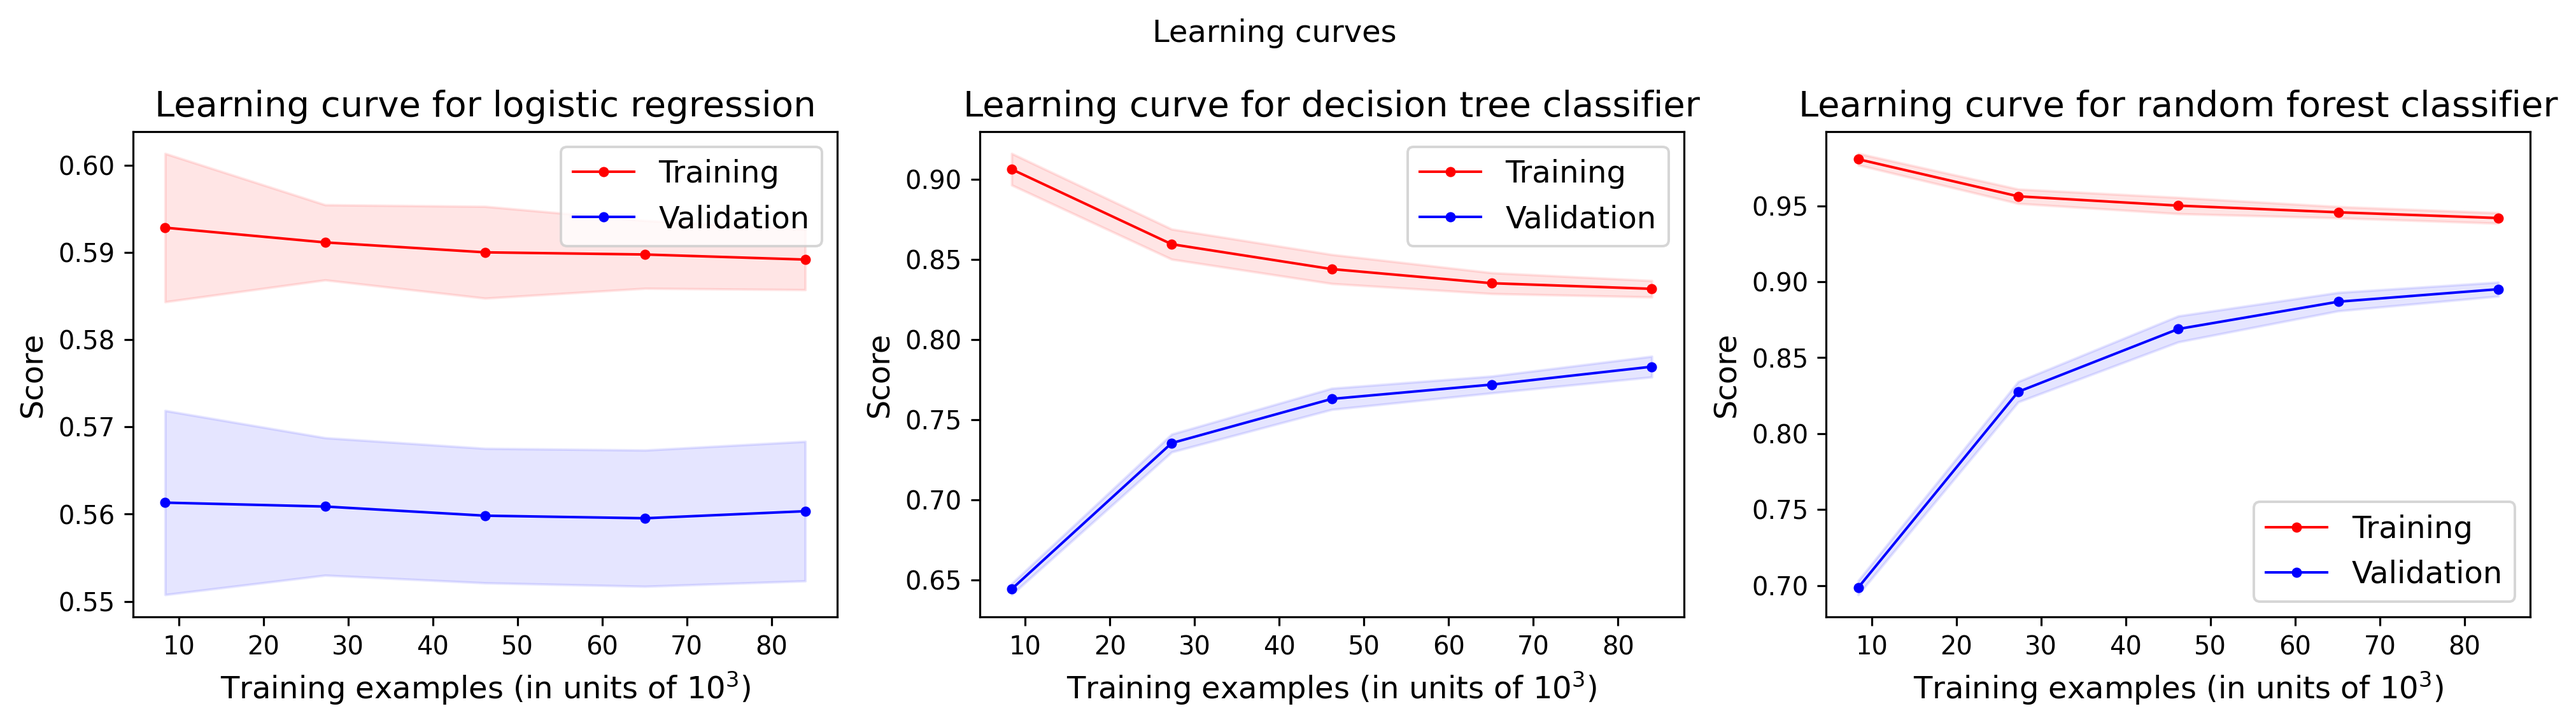
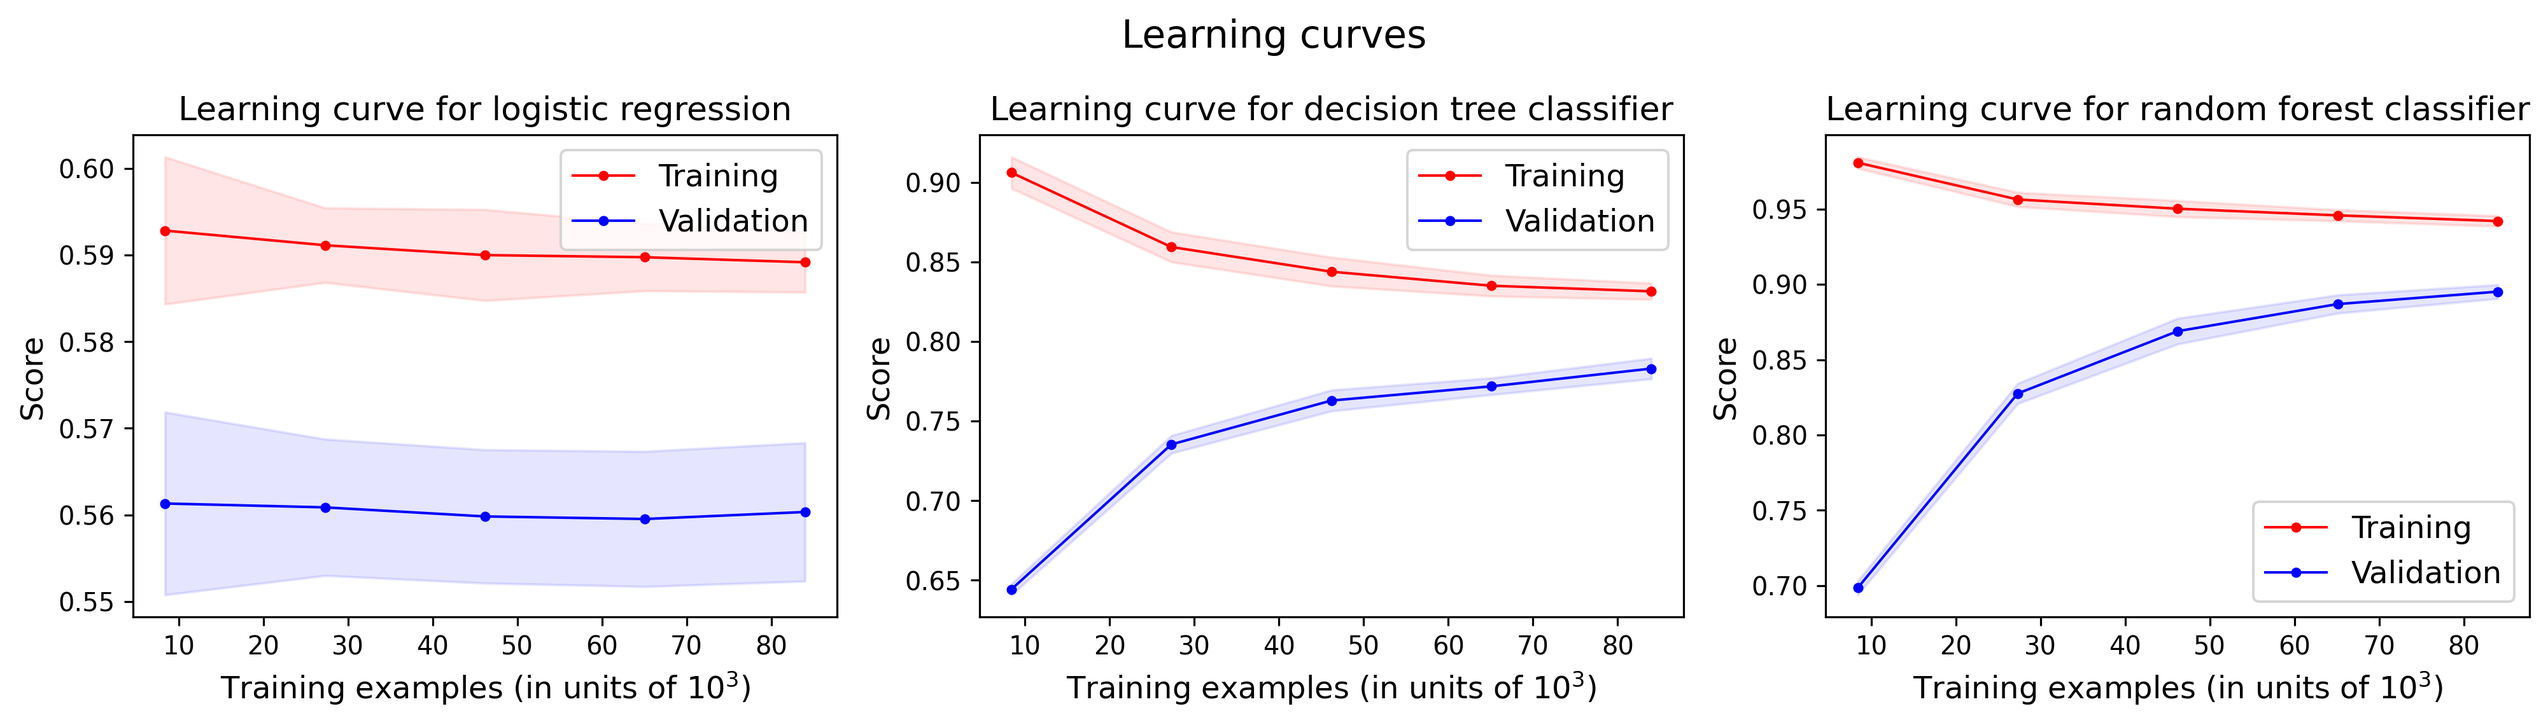
Using font size 15 for suptitles

diff --git a/learning_curves_plot.py b/learning_curves_plot.py
@@ -55,12 +55,12 @@ for ax, (model_name, model_instance) in zip(axes, model_dict.items()):
     ax.plot(train_sizes, train_scores_means, 'r.-', linewidth=1, label='Training')
     ax.plot(train_sizes, val_scores_means, 'b.-', linewidth=1, label='Validation')
     ax.legend(loc='best', fontsize=12)
-    ax.set_title('Learning curve for {0:s}'.format(model_name.lower()), fontsize=14)
+    ax.set_title('Learning curve for {0:s}'.format(model_name.lower()), fontsize=13)
     ax.set_xlabel('Training examples (in units of $10^3$)', fontsize=12)
     ticks = ticker.FuncFormatter(lambda x, _: '{0:g}'.format(x*1e-3))
     ax.xaxis.set_major_formatter(ticks)
     ax.set_ylabel('Score', fontsize=12)
-fig.suptitle('Learning curves', fontsize=12)
+fig.suptitle('Learning curves', fontsize=15)
 fig.tight_layout()
 plt.savefig(work_dir / 'plots/learning_curves_plot.png', dpi=288, bbox_inches='tight')
 print(f'Time elapsed: {(time() - t0):.2f} seconds')

diff --git a/helper_funcs/helper_plots.py b/helper_funcs/helper_plots.py
@@ -8,7 +8,7 @@ def roc_curve_plot_with_auc(rates_dict, work_dir):
     fig, axes = plt.subplots(1, 3, figsize=(12, 4))
     rates_tuples = rates_dict.items()
     for ax, (name, rates_list) in zip(axes, rates_tuples):
-        fpr, tpr, model_roc_auc = rates_listgit 
+        fpr, tpr, model_roc_auc = rates_list
         ax.plot(fpr, tpr, 'b.-', label='AUC: {:.4f}'.format(model_roc_auc))
         ax.plot([0, 1], [0, 1], 'r--')
         ax.set_xlim([-0.02, 1.0])
